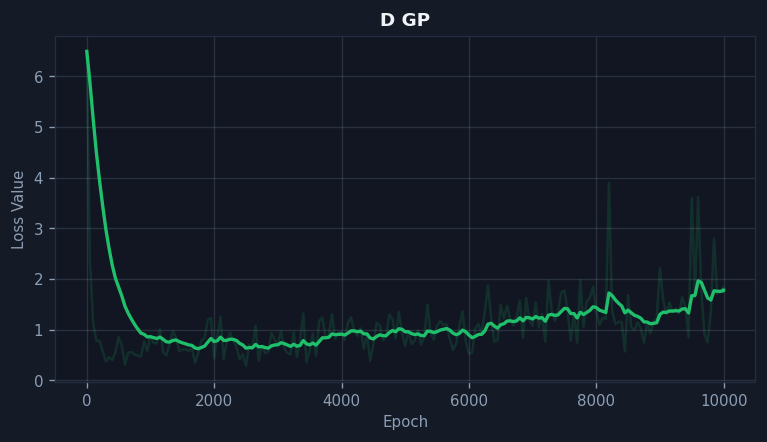
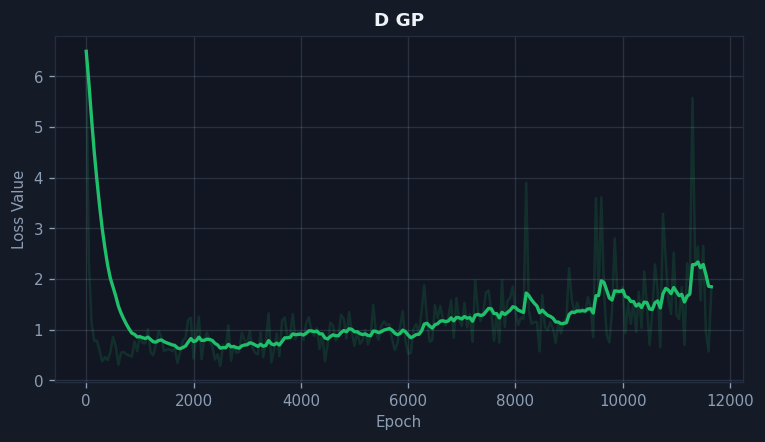
chore(report): update HTML dashboard and wells_only loss curves after metrics fix

diff --git a/index.html b/index.html
@@ -1397,40 +1397,6 @@
                   
                     <tr style="background-color: rgba(16, 185, 129, 0.06);">
                       <td style="text-align: center;"><span class="scorecard-rank">🥇</span></td>
-                      <td style="font-weight: 600;">Seismic Only</td>
-                      <td style="text-align: center; font-family: monospace;">1.08</td>
-                      
-                      <td style="text-align: center; font-family: monospace;">2.28</td>
-                      
-                      
-                      
-                      <td style="text-align: center; font-family: monospace;">0.68</td>
-                      <td style="text-align: center; font-family: monospace;">100.00</td>
-                      <td style="text-align: center;">
-                        <span style="font-family: monospace; font-weight: 600;">26.01</span>
-                        <span class="score-bar" style="width: 73px;"></span>
-                      </td>
-                    </tr>
-                  
-                    <tr>
-                      <td style="text-align: center;"><span class="scorecard-rank">🥈</span></td>
-                      <td style="font-weight: 600;">Wells + Seismic</td>
-                      <td style="text-align: center; font-family: monospace;">0.95</td>
-                      
-                      <td style="text-align: center; font-family: monospace;">4.10</td>
-                      
-                      
-                      
-                      <td style="text-align: center; font-family: monospace;">2.82</td>
-                      <td style="text-align: center; font-family: monospace;">100.00</td>
-                      <td style="text-align: center;">
-                        <span style="font-family: monospace; font-weight: 600;">26.97</span>
-                        <span class="score-bar" style="width: 73px;"></span>
-                      </td>
-                    </tr>
-                  
-                    <tr>
-                      <td style="text-align: center;"><span class="scorecard-rank">🥉</span></td>
                       <td style="font-weight: 600;">Wells Only</td>
                       <td style="text-align: center; font-family: monospace;">1.16</td>
                       
@@ -1439,9 +1405,43 @@
                       
                       
                       <td style="text-align: center; font-family: monospace;">0.86</td>
-                      <td style="text-align: center; font-family: monospace;">100.00</td>
+                      <td style="text-align: center; font-family: monospace;">96.66</td>
                       <td style="text-align: center;">
-                        <span style="font-family: monospace; font-weight: 600;">27.54</span>
+                        <span style="font-family: monospace; font-weight: 600;">26.71</span>
+                        <span class="score-bar" style="width: 73px;"></span>
+                      </td>
+                    </tr>
+                  
+                    <tr>
+                      <td style="text-align: center;"><span class="scorecard-rank">🥈</span></td>
+                      <td style="font-weight: 600;">Seismic Only</td>
+                      <td style="text-align: center; font-family: monospace;">1.08</td>
+                      
+                      <td style="text-align: center; font-family: monospace;">2.28</td>
+                      
+                      
+                      
+                      <td style="text-align: center; font-family: monospace;">0.68</td>
+                      <td style="text-align: center; font-family: monospace;">103.88</td>
+                      <td style="text-align: center;">
+                        <span style="font-family: monospace; font-weight: 600;">26.98</span>
+                        <span class="score-bar" style="width: 73px;"></span>
+                      </td>
+                    </tr>
+                  
+                    <tr>
+                      <td style="text-align: center;"><span class="scorecard-rank">🥉</span></td>
+                      <td style="font-weight: 600;">Wells + Seismic</td>
+                      <td style="text-align: center; font-family: monospace;">0.95</td>
+                      
+                      <td style="text-align: center; font-family: monospace;">4.10</td>
+                      
+                      
+                      
+                      <td style="text-align: center; font-family: monospace;">2.82</td>
+                      <td style="text-align: center; font-family: monospace;">103.34</td>
+                      <td style="text-align: center;">
+                        <span style="font-family: monospace; font-weight: 600;">27.80</span>
                         <span class="score-bar" style="width: 72px;"></span>
                       </td>
                     </tr>
@@ -1495,7 +1495,7 @@
                         
                         
                           <td style="text-align: center;"><span style="font-family: monospace; color: #fbbf24;">0.1160</span></td>
-                          <td style="text-align: center;"><span style="font-family: monospace; color: #f87171;">96.9114</span></td>
+                          <td style="text-align: center;"><span style="font-family: monospace; color: #f87171;">99.4649</span></td>
                         
                       
                       
@@ -1508,7 +1508,7 @@
                         
                         
                           <td style="text-align: center;"><span style="font-family: monospace; color: #f87171;">0.2788</span></td>
-                          <td style="text-align: center;"><span style="font-family: monospace; color: #f87171;">402.2430</span></td>
+                          <td style="text-align: center;"><span style="font-family: monospace; color: #f87171;">397.3370</span></td>
                         
                       
                       
@@ -1521,7 +1521,7 @@
                         
                         
                           <td style="text-align: center;"><span style="font-family: monospace; color: #fbbf24;">0.0633</span></td>
-                          <td style="text-align: center;"><span style="font-family: monospace; color: #f87171;">112.5219</span></td>
+                          <td style="text-align: center;"><span style="font-family: monospace; color: #f87171;">116.3940</span></td>
                         
                       
                       
@@ -1534,7 +1534,7 @@
                         
                         
                           <td style="text-align: center;"><span style="font-family: monospace; color: #f87171;">0.4802</span></td>
-                          <td style="text-align: center;"><span style="font-family: monospace; color: #f87171;">551.2923</span></td>
+                          <td style="text-align: center;"><span style="font-family: monospace; color: #f87171;">551.7789</span></td>
                         
                       
                       
@@ -3729,7 +3729,231 @@
                   <div class="carousel-viewport" id="carousel-wells_only">
                     
                       <div class="carousel-slide milestone-print" style="display: block;">
-                        <div style="margin-bottom: 10px; font-weight: 600; color: var(--accent-hover); font-size: 0.95rem;">📅 Milestone: <span class="epoch-number-label">Epoch 10000 (Final)</span></div>
+                        <div style="margin-bottom: 10px; font-weight: 600; color: var(--accent-hover); font-size: 0.95rem;">📅 Milestone: <span class="epoch-number-label">Epoch 11600 (Final)</span></div>
+                        <div class="image-grid-5">
+                          
+                            
+                              <div class="image-card">
+                                <div class="image-title">Facies</div>
+                                <img src="outputs/experiments/wells_only/training_visualizations/Scale_4/Facies_epoch_11600.png" alt="Facies">
+                              </div>
+                            
+                          
+                            
+                              <div class="image-card">
+                                <div class="image-title">Ip (<i>I<sub>p</sub></i>)</div>
+                                <img src="outputs/experiments/wells_only/training_visualizations/Scale_4/Ip_epoch_11600.png" alt="Ip (<i>I<sub>p</sub></i>)">
+                              </div>
+                            
+                          
+                            
+                              <div class="image-card">
+                                <div class="image-title">Seismic</div>
+                                <img src="outputs/experiments/wells_only/training_visualizations/Scale_4/Seismic_epoch_11600.png" alt="Seismic">
+                              </div>
+                            
+                          
+                        </div>
+                      </div>
+                    
+                      <div class="carousel-slide" style="display: none;">
+                        <div style="margin-bottom: 10px; font-weight: 600; color: var(--accent-hover); font-size: 0.95rem;">📅 Milestone: <span class="epoch-number-label">Epoch 11400</span></div>
+                        <div class="image-grid-5">
+                          
+                            
+                              <div class="image-card">
+                                <div class="image-title">Facies</div>
+                                <img src="outputs/experiments/wells_only/training_visualizations/Scale_4/Facies_epoch_11400.png" alt="Facies">
+                              </div>
+                            
+                          
+                            
+                              <div class="image-card">
+                                <div class="image-title">Ip (<i>I<sub>p</sub></i>)</div>
+                                <img src="outputs/experiments/wells_only/training_visualizations/Scale_4/Ip_epoch_11400.png" alt="Ip (<i>I<sub>p</sub></i>)">
+                              </div>
+                            
+                          
+                            
+                              <div class="image-card">
+                                <div class="image-title">Seismic</div>
+                                <img src="outputs/experiments/wells_only/training_visualizations/Scale_4/Seismic_epoch_11400.png" alt="Seismic">
+                              </div>
+                            
+                          
+                        </div>
+                      </div>
+                    
+                      <div class="carousel-slide" style="display: none;">
+                        <div style="margin-bottom: 10px; font-weight: 600; color: var(--accent-hover); font-size: 0.95rem;">📅 Milestone: <span class="epoch-number-label">Epoch 11200</span></div>
+                        <div class="image-grid-5">
+                          
+                            
+                              <div class="image-card">
+                                <div class="image-title">Facies</div>
+                                <img src="outputs/experiments/wells_only/training_visualizations/Scale_4/Facies_epoch_11200.png" alt="Facies">
+                              </div>
+                            
+                          
+                            
+                              <div class="image-card">
+                                <div class="image-title">Ip (<i>I<sub>p</sub></i>)</div>
+                                <img src="outputs/experiments/wells_only/training_visualizations/Scale_4/Ip_epoch_11200.png" alt="Ip (<i>I<sub>p</sub></i>)">
+                              </div>
+                            
+                          
+                            
+                              <div class="image-card">
+                                <div class="image-title">Seismic</div>
+                                <img src="outputs/experiments/wells_only/training_visualizations/Scale_4/Seismic_epoch_11200.png" alt="Seismic">
+                              </div>
+                            
+                          
+                        </div>
+                      </div>
+                    
+                      <div class="carousel-slide" style="display: none;">
+                        <div style="margin-bottom: 10px; font-weight: 600; color: var(--accent-hover); font-size: 0.95rem;">📅 Milestone: <span class="epoch-number-label">Epoch 11000</span></div>
+                        <div class="image-grid-5">
+                          
+                            
+                              <div class="image-card">
+                                <div class="image-title">Facies</div>
+                                <img src="outputs/experiments/wells_only/training_visualizations/Scale_4/Facies_epoch_11000.png" alt="Facies">
+                              </div>
+                            
+                          
+                            
+                              <div class="image-card">
+                                <div class="image-title">Ip (<i>I<sub>p</sub></i>)</div>
+                                <img src="outputs/experiments/wells_only/training_visualizations/Scale_4/Ip_epoch_11000.png" alt="Ip (<i>I<sub>p</sub></i>)">
+                              </div>
+                            
+                          
+                            
+                              <div class="image-card">
+                                <div class="image-title">Seismic</div>
+                                <img src="outputs/experiments/wells_only/training_visualizations/Scale_4/Seismic_epoch_11000.png" alt="Seismic">
+                              </div>
+                            
+                          
+                        </div>
+                      </div>
+                    
+                      <div class="carousel-slide" style="display: none;">
+                        <div style="margin-bottom: 10px; font-weight: 600; color: var(--accent-hover); font-size: 0.95rem;">📅 Milestone: <span class="epoch-number-label">Epoch 10800</span></div>
+                        <div class="image-grid-5">
+                          
+                            
+                              <div class="image-card">
+                                <div class="image-title">Facies</div>
+                                <img src="outputs/experiments/wells_only/training_visualizations/Scale_4/Facies_epoch_10800.png" alt="Facies">
+                              </div>
+                            
+                          
+                            
+                              <div class="image-card">
+                                <div class="image-title">Ip (<i>I<sub>p</sub></i>)</div>
+                                <img src="outputs/experiments/wells_only/training_visualizations/Scale_4/Ip_epoch_10800.png" alt="Ip (<i>I<sub>p</sub></i>)">
+                              </div>
+                            
+                          
+                            
+                              <div class="image-card">
+                                <div class="image-title">Seismic</div>
+                                <img src="outputs/experiments/wells_only/training_visualizations/Scale_4/Seismic_epoch_10800.png" alt="Seismic">
+                              </div>
+                            
+                          
+                        </div>
+                      </div>
+                    
+                      <div class="carousel-slide" style="display: none;">
+                        <div style="margin-bottom: 10px; font-weight: 600; color: var(--accent-hover); font-size: 0.95rem;">📅 Milestone: <span class="epoch-number-label">Epoch 10600</span></div>
+                        <div class="image-grid-5">
+                          
+                            
+                              <div class="image-card">
+                                <div class="image-title">Facies</div>
+                                <img src="outputs/experiments/wells_only/training_visualizations/Scale_4/Facies_epoch_10600.png" alt="Facies">
+                              </div>
+                            
+                          
+                            
+                              <div class="image-card">
+                                <div class="image-title">Ip (<i>I<sub>p</sub></i>)</div>
+                                <img src="outputs/experiments/wells_only/training_visualizations/Scale_4/Ip_epoch_10600.png" alt="Ip (<i>I<sub>p</sub></i>)">
+                              </div>
+                            
+                          
+                            
+                              <div class="image-card">
+                                <div class="image-title">Seismic</div>
+                                <img src="outputs/experiments/wells_only/training_visualizations/Scale_4/Seismic_epoch_10600.png" alt="Seismic">
+                              </div>
+                            
+                          
+                        </div>
+                      </div>
+                    
+                      <div class="carousel-slide" style="display: none;">
+                        <div style="margin-bottom: 10px; font-weight: 600; color: var(--accent-hover); font-size: 0.95rem;">📅 Milestone: <span class="epoch-number-label">Epoch 10400</span></div>
+                        <div class="image-grid-5">
+                          
+                            
+                              <div class="image-card">
+                                <div class="image-title">Facies</div>
+                                <img src="outputs/experiments/wells_only/training_visualizations/Scale_4/Facies_epoch_10400.png" alt="Facies">
+                              </div>
+                            
+                          
+                            
+                              <div class="image-card">
+                                <div class="image-title">Ip (<i>I<sub>p</sub></i>)</div>
+                                <img src="outputs/experiments/wells_only/training_visualizations/Scale_4/Ip_epoch_10400.png" alt="Ip (<i>I<sub>p</sub></i>)">
+                              </div>
+                            
+                          
+                            
+                              <div class="image-card">
+                                <div class="image-title">Seismic</div>
+                                <img src="outputs/experiments/wells_only/training_visualizations/Scale_4/Seismic_epoch_10400.png" alt="Seismic">
+                              </div>
+                            
+                          
+                        </div>
+                      </div>
+                    
+                      <div class="carousel-slide" style="display: none;">
+                        <div style="margin-bottom: 10px; font-weight: 600; color: var(--accent-hover); font-size: 0.95rem;">📅 Milestone: <span class="epoch-number-label">Epoch 10200</span></div>
+                        <div class="image-grid-5">
+                          
+                            
+                              <div class="image-card">
+                                <div class="image-title">Facies</div>
+                                <img src="outputs/experiments/wells_only/training_visualizations/Scale_4/Facies_epoch_10200.png" alt="Facies">
+                              </div>
+                            
+                          
+                            
+                              <div class="image-card">
+                                <div class="image-title">Ip (<i>I<sub>p</sub></i>)</div>
+                                <img src="outputs/experiments/wells_only/training_visualizations/Scale_4/Ip_epoch_10200.png" alt="Ip (<i>I<sub>p</sub></i>)">
+                              </div>
+                            
+                          
+                            
+                              <div class="image-card">
+                                <div class="image-title">Seismic</div>
+                                <img src="outputs/experiments/wells_only/training_visualizations/Scale_4/Seismic_epoch_10200.png" alt="Seismic">
+                              </div>
+                            
+                          
+                        </div>
+                      </div>
+                    
+                      <div class="carousel-slide" style="display: none;">
+                        <div style="margin-bottom: 10px; font-weight: 600; color: var(--accent-hover); font-size: 0.95rem;">📅 Milestone: <span class="epoch-number-label">Epoch 10000</span></div>
                         <div class="image-grid-5">
                           
                             
@@ -5190,8 +5414,8 @@
                   
                   
                     <div class="carousel-indicator-bar" style="align-items: center; gap: 10px; width: 100%; max-width: 400px; margin: 12px auto;">
-                      <input type="range" id="scrubber-wells_only" min="0" max="51" value="51" oninput="jumpToSlide('wells_only', 51 - parseInt(this.value))" style="flex-grow: 1; accent-color: var(--accent); cursor: pointer;">
-                      <span id="scrubber-label-wells_only" style="font-size: 0.85rem; color: var(--text-muted); font-family: monospace;">Epoch 10000 (Final) (52/52)</span>
+                      <input type="range" id="scrubber-wells_only" min="0" max="59" value="59" oninput="jumpToSlide('wells_only', 59 - parseInt(this.value))" style="flex-grow: 1; accent-color: var(--accent); cursor: pointer;">
+                      <span id="scrubber-label-wells_only" style="font-size: 0.85rem; color: var(--text-muted); font-family: monospace;">Epoch 11600 (Final) (60/60)</span>
                     </div>
                   
                 </div>
@@ -9020,7 +9244,7 @@
                   
                     <tr>
                       <td style="font-weight: 500;">Wells Only</td>
-                      <td style="text-align: center; font-family: monospace;">5h 42m</td>
+                      <td style="text-align: center; font-family: monospace;">6h 38m</td>
                       <td style="text-align: center; font-family: monospace;">41.6 MB</td>
                     </tr>
                   
